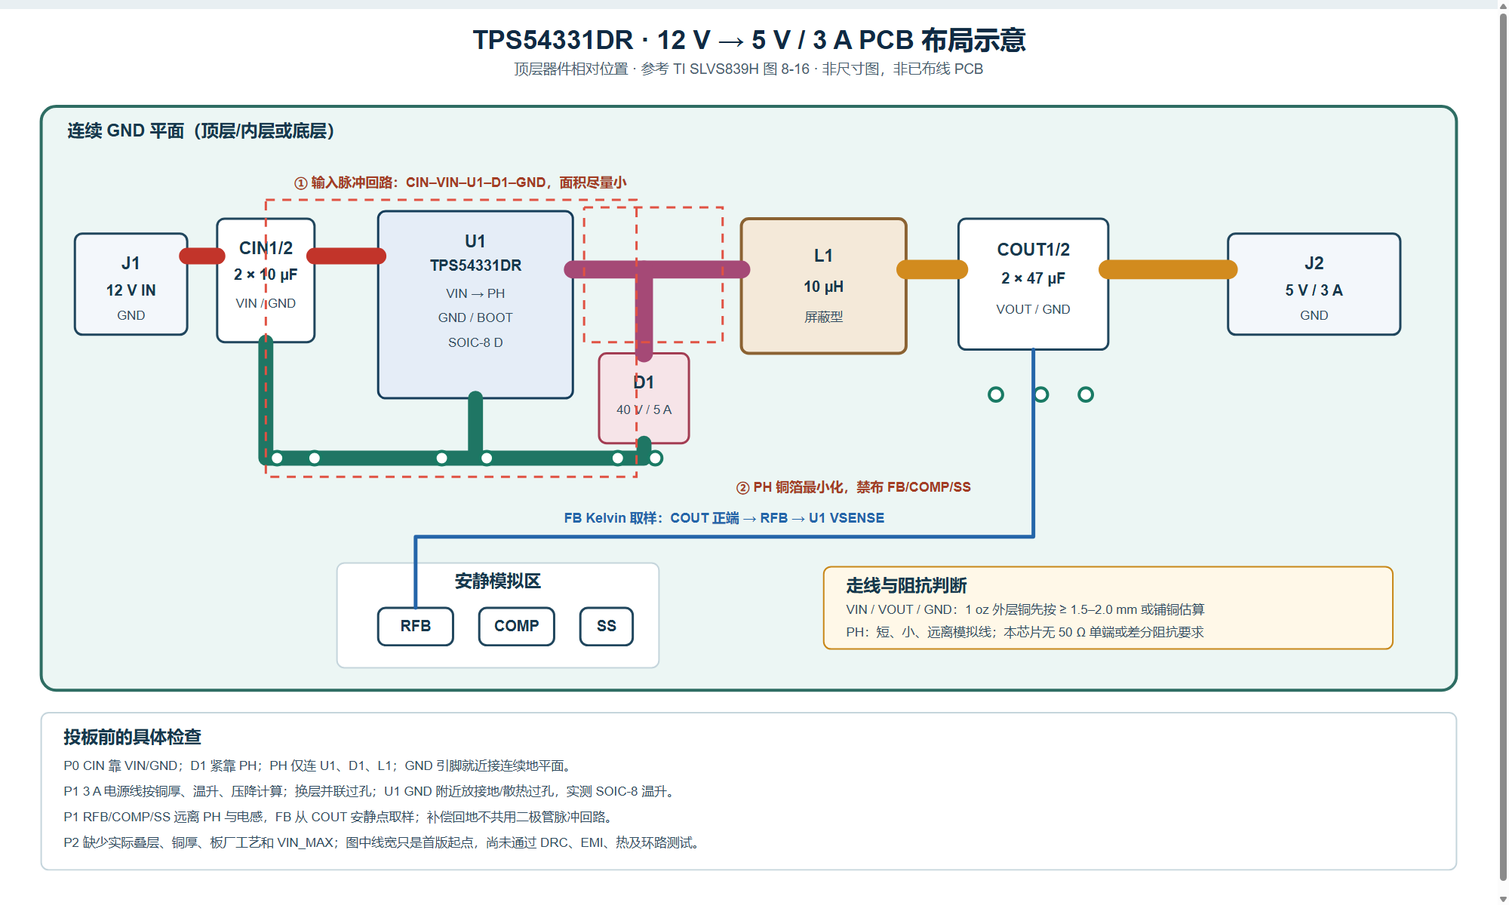
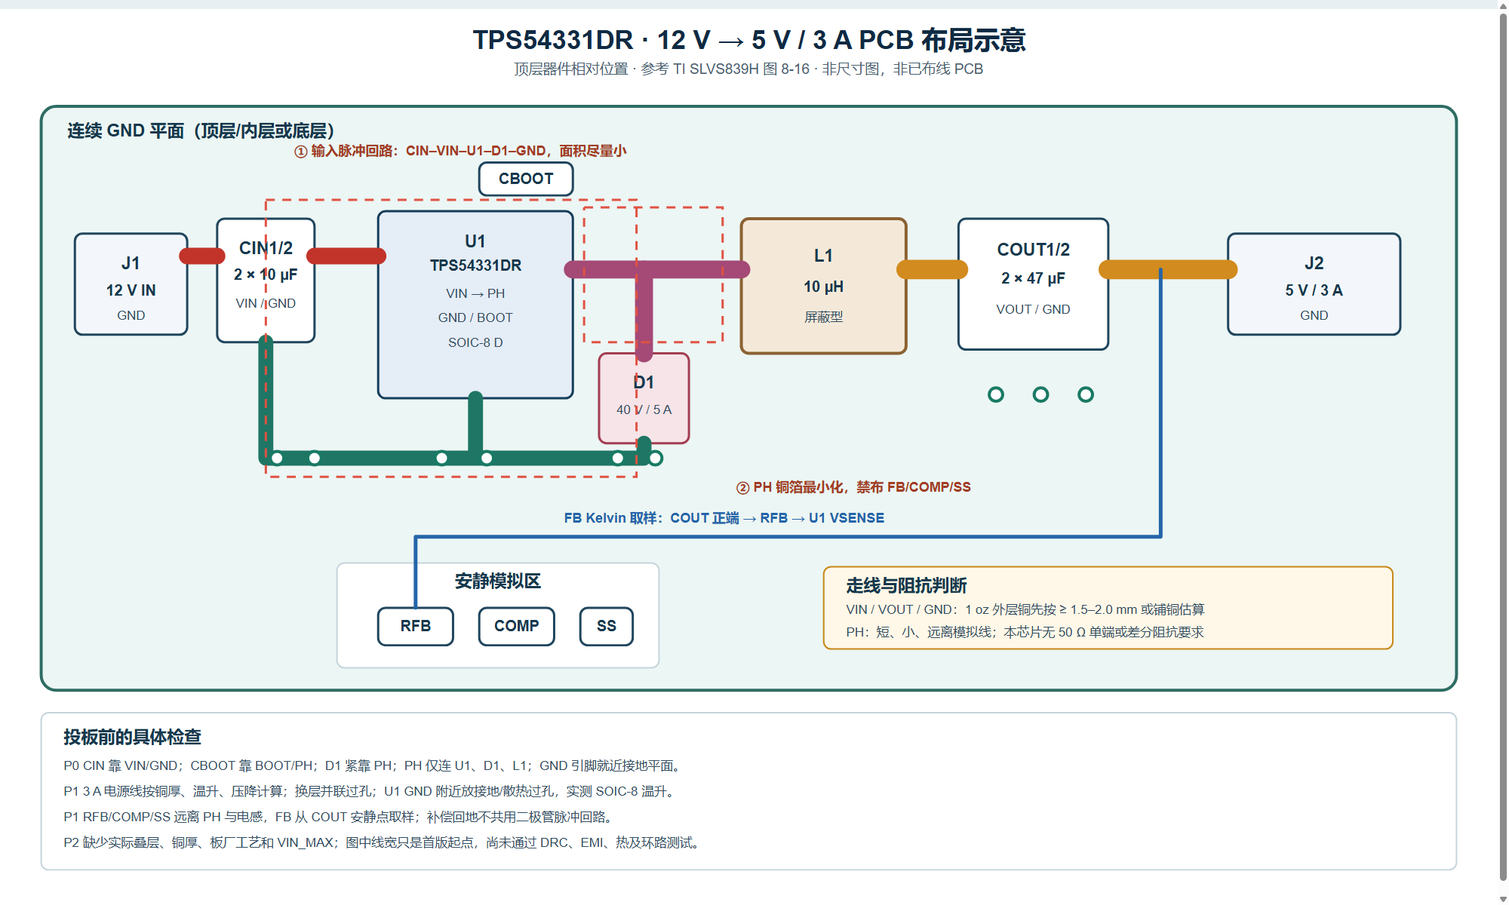
Refine TPS54331DR PCB illustration

Changed region(s): [[0.186, 0.1542, 0.434, 0.2158], [0.124, 0.8325, 0.434, 0.8633], [0.682, 0.5858, 0.775, 0.6167]]

diff --git a/examples/tps54331dr-12v-to-5v-3a/tps54331dr_12v_to_5v_3a_circuit_pcb_review.html b/examples/tps54331dr-12v-to-5v-3a/tps54331dr_12v_to_5v_3a_circuit_pcb_review.html
@@ -3,4 +3,4 @@
 .wire{stroke:#17384d;stroke-width:3;fill:none;stroke-linejoin:round;stroke-linecap:round}.power{stroke:#b42318;stroke-width:4;fill:none;stroke-linejoin:round;stroke-linecap:round}.sym{stroke:#17384d;stroke-width:3;fill:none}.gnd{stroke:#607488;stroke-width:2.5;fill:none}.part{fill:#fff;stroke:#17384d;stroke-width:2.5}.chip{fill:#edf5fb;stroke:#102a43;stroke-width:3}.port{fill:#f6fafc;stroke:#17384d;stroke-width:2.5}.net{fill:#e7f4ed;stroke:#25724e;stroke-width:2}.text{fill:#17384d;font:19px Arial,'Microsoft YaHei',sans-serif}.title{fill:#102a43;font:bold 31px Arial,'Microsoft YaHei',sans-serif}.sub{fill:#526a7a;font:17px Arial,'Microsoft YaHei',sans-serif}.ref{fill:#17384d;font:bold 17px Arial,'Microsoft YaHei',sans-serif}.val{fill:#b42318;font:bold 16px Arial,'Microsoft YaHei',sans-serif}.pin{fill:#102a43;font:bold 18px Arial,sans-serif}.nettext{fill:#25724e;font:bold 17px Arial,sans-serif}.note{fill:#fff8e8;stroke:#c88719;stroke-width:2}.small{fill:#334e63;font:17px Arial,'Microsoft YaHei',sans-serif}
 </style></defs><rect width="1800" height="1100" fill="white"/><text x="900" y="47" class="title" text-anchor="middle">TPS54331DR 12 V → 5 V / 3 A 降压电路</text><text x="900" y="77" class="sub" text-anchor="middle">TI SLVS839H · SOIC-8 D 封装 · 570 kHz · 初版工程示意图</text><rect x="40" y="285" width="170" height="70" class="port" rx="5"/><text x="125" y="315" class="ref" text-anchor="middle">J1</text><text x="125" y="340" class="text" text-anchor="middle">12 V IN</text><path class="wire" d="M125 355V390"/><path class="gnd" d="M102 390h46 M109 398h32 M116 406h18"/><path class="power" d="M210 320H590"/><text x="240" y="300" class="val">VIN</text><path class="power" d="M330 320V405 M450 320V405"/><path class="sym" d="M330 382v23 M305 405h50 M305 420h50 M330 420v25"/><path class="gnd" d="M307 445h46 M314 453h32 M321 461h18"/><text x="330" y="481" class="ref" text-anchor="middle">CIN1</text><text x="330" y="504" class="val" text-anchor="middle">10 µF / 50 V</text><path class="sym" d="M450 382v23 M425 405h50 M425 420h50 M450 420v25"/><path class="gnd" d="M427 445h46 M434 453h32 M441 461h18"/><text x="450" y="481" class="ref" text-anchor="middle">CIN2</text><text x="450" y="504" class="val" text-anchor="middle">10 µF / 50 V</text><path class="power" d="M590 320H610"/><rect x="590" y="240" width="360" height="390" class="chip" rx="5"/><text x="770" y="380" class="title" text-anchor="middle">TPS54331DR</text><text x="770" y="408" class="text" text-anchor="middle">U1 · SOIC-8 (D)</text><text x="770" y="432" class="sub" text-anchor="middle">3 A 非同步 Buck</text><text x="608" y="266" class="pin">1 BOOT</text><text x="608" y="326" class="pin">2 VIN</text><text x="608" y="446" class="pin">3 EN</text><text x="608" y="546" class="pin">4 SS</text><text x="866" y="326" class="pin">8 PH</text><text x="852" y="446" class="pin">5 VSENSE</text><text x="853" y="546" class="pin">6 COMP</text><text x="715" y="614" class="pin">7 GND</text><path class="power" d="M590 270H550V155H925 M999 155H1110V320"/><path class="sym" d="M925 155h19 M944 129v52 M958 129v52 M958 155h41"/><text x="952" y="111" class="val" text-anchor="middle">CBOOT · 100 nF X7R</text><path class="wire" d="M590 440H510"/><rect x="510" y="416" width="74" height="30" class="net" rx="5"/><text x="547" y="437" class="nettext" text-anchor="middle">EN</text><path class="wire" d="M590 540H490V575"/><path class="sym" d="M490 575v23 M465 598h50 M465 613h50 M490 613v25"/><path class="gnd" d="M467 638h46 M474 646h32 M481 654h18"/><text x="490" y="674" class="ref" text-anchor="middle">CSS</text><text x="490" y="697" class="val" text-anchor="middle">10 nF</text><path class="wire" d="M750 630V660"/><path class="gnd" d="M727 660h46 M734 668h32 M741 676h18"/><path class="wire" d="M950 440H980"/><rect x="980" y="416" width="74" height="30" class="net" rx="5"/><text x="1017" y="437" class="nettext" text-anchor="middle">FB</text><path class="wire" d="M950 540H980"/><rect x="980" y="516" width="74" height="30" class="net" rx="5"/><text x="1017" y="537" class="nettext" text-anchor="middle">COMP</text><path class="power" d="M950 320H1170"/><path class="power" d="M1120 320V394"/><path class="wire" d="M1120 394V405"/><path class="sym" d="M1095 405H1145 M1095 445L1120 412L1145 445Z"/><path class="wire" d="M1120 445V478"/><path class="gnd" d="M1097 478h46 M1104 486h32 M1111 494h18"/><text x="1160" y="415" class="ref">D1</text><text x="1160" y="440" class="val">B540A · 40 V / 5 A</text><path class="power" d="M1170 320C1180 295 1200 295 1210 320C1220 345 1240 345 1250 320C1260 295 1280 295 1290 320C1300 345 1320 345 1330 320"/><path class="power" d="M1330 320H1660"/><text x="1250" y="260" class="ref" text-anchor="middle">L1 · 10 µH</text><text x="1250" y="282" class="val" text-anchor="middle">Isat ≥ 4.5 A, Irms ≥ 3.5 A</text><path class="power" d="M1390 320V405 M1510 320V405"/><path class="sym" d="M1390 382v23 M1365 405h50 M1365 420h50 M1390 420v25"/><path class="gnd" d="M1367 445h46 M1374 453h32 M1381 461h18"/><text x="1390" y="481" class="ref" text-anchor="middle">COUT1</text><text x="1390" y="504" class="val" text-anchor="middle">47 µF / 16 V</text><path class="sym" d="M1510 382v23 M1485 405h50 M1485 420h50 M1510 420v25"/><path class="gnd" d="M1487 445h46 M1494 453h32 M1501 461h18"/><text x="1510" y="481" class="ref" text-anchor="middle">COUT2</text><text x="1510" y="504" class="val" text-anchor="middle">47 µF / 16 V</text><rect x="1660" y="285" width="115" height="70" class="port" rx="5"/><text x="1717" y="315" class="ref" text-anchor="middle">J2</text><text x="1717" y="340" class="text" text-anchor="middle">5 V / 3 A</text><path class="wire" d="M1717 355V390"/><path class="gnd" d="M1694 390h46 M1701 398h32 M1708 406h18"/><rect x="250" y="626" width="74" height="30" class="net" rx="5"/><text x="287" y="647" class="nettext" text-anchor="middle">VIN</text><path class="wire" d="M287 650V667"/><path class="wire" d="M287 667v22 M287 735v22"/><rect x="272" y="689" width="30" height="46" class="part" rx="5"/><text x="315" y="708" class="ref">REN1</text><text x="315" y="732" class="val">332 kΩ</text><path class="wire" d="M287 757V775H365"/><rect x="365" y="775" width="74" height="30" class="net" rx="5"/><text x="402" y="796" class="nettext" text-anchor="middle">EN</text><path class="wire" d="M287 775V784"/><path class="wire" d="M287 784v22 M287 852v22"/><rect x="272" y="806" width="30" height="46" class="part" rx="5"/><text x="315" y="825" class="ref">REN2</text><text x="315" y="849" class="val">68.1 kΩ</text><path class="wire" d="M287 874V900"/><path class="gnd" d="M264 900h46 M271 908h32 M278 916h18"/><path class="wire" d="M1620 320V617"/><path class="wire" d="M1620 617v22 M1620 685v22"/><rect x="1605" y="639" width="30" height="46" class="part" rx="5"/><text x="1648" y="658" class="ref">RFB1</text><text x="1648" y="682" class="val">10.2 kΩ</text><path class="wire" d="M1620 707V735H1660"/><rect x="1660" y="735" width="74" height="30" class="net" rx="5"/><text x="1697" y="756" class="nettext" text-anchor="middle">FB</text><path class="wire" d="M1620 735V744"/><path class="wire" d="M1620 744v22 M1620 812v22"/><rect x="1605" y="766" width="30" height="46" class="part" rx="5"/><text x="1648" y="785" class="ref">RFB2</text><text x="1648" y="809" class="val">1.96 kΩ</text><path class="wire" d="M1620 834V862"/><path class="gnd" d="M1597 862h46 M1604 870h32 M1611 878h18"/><rect x="690" y="731" width="74" height="30" class="net" rx="5"/><text x="727" y="752" class="nettext" text-anchor="middle">COMP</text><path class="wire" d="M764 755H1000"/><path class="wire" d="M865 755V795"/><path class="sym" d="M865 795v23 M840 818h50 M840 833h50 M865 833v25"/><path class="gnd" d="M842 858h46 M849 866h32 M856 874h18"/><text x="865" y="894" class="ref" text-anchor="middle">CP</text><text x="865" y="917" class="val" text-anchor="middle">51 pF</text><path class="wire" d="M1000 755H1020"/><rect x="1020" y="740" width="70" height="30" class="part" rx="5"/><text x="1055" y="725" class="ref" text-anchor="middle">RCOMP</text><text x="1055" y="790" class="val" text-anchor="middle">35.7 kΩ</text><path class="wire" d="M1090 755H1150V795"/><path class="sym" d="M1150 795v23 M1125 818h50 M1125 833h50 M1150 833v25"/><path class="gnd" d="M1127 858h46 M1134 866h32 M1141 874h18"/><text x="1150" y="894" class="ref" text-anchor="middle">CZ</text><text x="1150" y="917" class="val" text-anchor="middle">1.0 nF</text><rect x="40" y="955" width="1735" height="115" class="note" rx="5"/><text x="65" y="985" class="ref">接线与验证重点</text><text x="65" y="1015" class="small">D1 阴极接 PH、阳极接地；CBOOT 跨 BOOT/PH。FB 和 COMP 绿色同名网络分别相连。</text><text x="65" y="1043" class="small">输出标称约 4.96 V；3 A 满载需检查 SOIC-8 温升，并验证实际输出电容、环路和 PCB 布局。</text></svg></section><section id="layout"><h2>2. PCB 布局策略</h2><p>器件相对位置和关键回路示意；线宽与过孔是首版起点，需按实际叠层和温升复核。</p><svg xmlns="http://www.w3.org/2000/svg" width="2000" height="1200" viewBox="0 0 2000 1200"><defs><style>
 .bg{fill:#fff}.board{fill:#ecf6f4;stroke:#2e6d63;stroke-width:4}.chip{fill:#e5edf7;stroke:#153d5a;stroke-width:3}.passive{fill:#fff;stroke:#20465d;stroke-width:3}.connector{fill:#f3f7fb;stroke:#20465d;stroke-width:3}.inductor{fill:#f4e9d9;stroke:#8b6232;stroke-width:4}.diode{fill:#f6e4e8;stroke:#a33d53;stroke-width:3}.node{fill:#fff;stroke:#20465d;stroke-width:3}.via{fill:#fff;stroke:#197a64;stroke-width:4}.vin{stroke:#c2342a;stroke-width:22;fill:none;stroke-linecap:round;stroke-linejoin:round}.ph{stroke:#a54976;stroke-width:24;fill:none;stroke-linecap:round;stroke-linejoin:round}.vout{stroke:#d28b1e;stroke-width:26;fill:none;stroke-linecap:round;stroke-linejoin:round}.gnd{stroke:#1f7664;stroke-width:20;fill:none;stroke-linecap:round;stroke-linejoin:round}.fb{stroke:#2465a9;stroke-width:5;fill:none;stroke-linecap:round;stroke-linejoin:round}.loop{stroke:#e05243;stroke-width:4;fill:none;stroke-dasharray:14 10;marker-end:url(#arrow)}.zone{fill:none;stroke:#e05243;stroke-width:3;stroke-dasharray:12 10}.separate{stroke:#587282;stroke-width:2;fill:none;stroke-dasharray:8 8}.title{font:bold 35px Arial,'Microsoft YaHei',sans-serif;fill:#102a43}.subtitle{font:19px Arial,'Microsoft YaHei',sans-serif;fill:#49616f}.head{font:bold 23px Arial,'Microsoft YaHei',sans-serif;fill:#17384d}.label{font:bold 20px Arial,'Microsoft YaHei',sans-serif;fill:#17384d}.small{font:17px Arial,'Microsoft YaHei',sans-serif;fill:#334e63}.white{font:bold 20px Arial,'Microsoft YaHei',sans-serif;fill:white}.warn{font:bold 18px Arial,'Microsoft YaHei',sans-serif;fill:#a33d25}.blue{font:bold 18px Arial,'Microsoft YaHei',sans-serif;fill:#2465a9}.tag{fill:#fff8e8;stroke:#c88719;stroke-width:2}.legend{fill:#fff;stroke:#c5d5dc;stroke-width:2}
-</style><marker id="arrow" viewBox="0 0 10 10" refX="8" refY="5" markerWidth="9" markerHeight="9" orient="auto"><path d="M0 0L10 5L0 10Z" fill="#e05243"/></marker></defs><rect x="0" y="0" width="2000" height="1200" rx="0" class="bg"/><text x="1000" y="53" class="title" text-anchor="middle">TPS54331DR · 12 V → 5 V / 3 A PCB 布局示意</text><text x="1000" y="87" class="subtitle" text-anchor="middle">顶层器件相对位置 · 参考 TI SLVS839H 图 8-16 · 非尺寸图，非已布线 PCB</text><rect x="55" y="130" width="1890" height="780" rx="20" class="board"/><text x="90" y="170" class="head">连续 GND 平面（顶层/内层或底层）</text><rect x="100" y="300" width="150" height="135" rx="10" class="connector"/><text x="175" y="348" class="head" text-anchor="middle">J1</text><text x="175" y="383" class="label" text-anchor="middle">12 V IN</text><text x="175" y="415" class="small" text-anchor="middle">GND</text><rect x="290" y="280" width="130" height="165" rx="10" class="passive"/><text x="355" y="327" class="head" text-anchor="middle">CIN1/2</text><text x="355" y="362" class="label" text-anchor="middle">2 × 10 µF</text><text x="355" y="399" class="small" text-anchor="middle">VIN / GND</text><rect x="505" y="270" width="260" height="250" rx="10" class="chip"/><text x="635" y="318" class="head" text-anchor="middle">U1</text><text x="635" y="350" class="label" text-anchor="middle">TPS54331DR</text><text x="635" y="386" class="small" text-anchor="middle">VIN  →  PH</text><text x="635" y="418" class="small" text-anchor="middle">GND / BOOT</text><text x="635" y="451" class="small" text-anchor="middle">SOIC-8 D</text><rect x="800" y="460" width="120" height="120" rx="10" class="diode"/><text x="860" y="507" class="head" text-anchor="middle">D1</text><text x="860" y="541" class="small" text-anchor="middle">40 V / 5 A</text><rect x="990" y="280" width="220" height="180" rx="10" class="inductor"/><text x="1100" y="338" class="head" text-anchor="middle">L1</text><text x="1100" y="378" class="label" text-anchor="middle">10 µH</text><text x="1100" y="417" class="small" text-anchor="middle">屏蔽型</text><rect x="1280" y="280" width="200" height="175" rx="10" class="passive"/><text x="1380" y="329" class="head" text-anchor="middle">COUT1/2</text><text x="1380" y="367" class="label" text-anchor="middle">2 × 47 µF</text><text x="1380" y="407" class="small" text-anchor="middle">VOUT / GND</text><rect x="1640" y="300" width="230" height="135" rx="10" class="connector"/><text x="1755" y="348" class="head" text-anchor="middle">J2</text><text x="1755" y="383" class="label" text-anchor="middle">5 V / 3 A</text><text x="1755" y="415" class="small" text-anchor="middle">GND</text><path d="M250 330H290 M420 330H505" class="vin"/><path d="M765 348H990" class="ph"/><path d="M860 460V348" class="ph"/><path d="M1210 348H1280 M1480 348H1640" class="vout"/><path d="M355 445V600H635V520 M635 600H860V580" class="gnd"/><circle cx="370" cy="600" r="9" class="via"/><circle cx="420" cy="600" r="9" class="via"/><circle cx="590" cy="600" r="9" class="via"/><circle cx="650" cy="600" r="9" class="via"/><circle cx="825" cy="600" r="9" class="via"/><circle cx="875" cy="600" r="9" class="via"/><circle cx="1330" cy="515" r="9" class="via"/><circle cx="1390" cy="515" r="9" class="via"/><circle cx="1450" cy="515" r="9" class="via"/><rect x="450" y="740" width="430" height="140" rx="10" class="legend"/><text x="665" y="772" class="head" text-anchor="middle">安静模拟区</text><rect x="505" y="800" width="100" height="50" rx="10" class="passive"/><text x="555" y="831" class="label" text-anchor="middle">RFB</text><rect x="640" y="800" width="100" height="50" rx="10" class="passive"/><text x="690" y="831" class="label" text-anchor="middle">COMP</text><rect x="775" y="800" width="70" height="50" rx="10" class="passive"/><text x="810" y="831" class="label" text-anchor="middle">SS</text><path d="M1380 455V705H555V800" class="fb"/><text x="967" y="686" class="blue" text-anchor="middle">FB Kelvin 取样：COUT 正端 → RFB → U1 VSENSE</text><path d="M355 255H850V625H355V255" class="zone"/><text x="615" y="238" class="warn" text-anchor="middle">① 输入脉冲回路：CIN–VIN–U1–D1–GND，面积尽量小</text><path d="M780 265H965V445H780V265" class="zone"/><text x="1140" y="645" class="warn" text-anchor="middle">② PH 铜箔最小化，禁布 FB/COMP/SS</text><rect x="1100" y="745" width="760" height="110" rx="10" class="tag"/><text x="1130" y="778" class="head">走线与阻抗判断</text><text x="1130" y="808" class="small">VIN / VOUT / GND：1 oz 外层铜先按 ≥ 1.5–2.0 mm 或铺铜估算</text><text x="1130" y="838" class="small">PH：短、小、远离模拟线；本芯片无 50 Ω 单端或差分阻抗要求</text><rect x="55" y="940" width="1890" height="210" rx="10" class="legend"/><text x="85" y="980" class="head">投板前的具体检查</text><text x="85" y="1017" class="small">P0  CIN 靠 VIN/GND；D1 紧靠 PH；PH 仅连 U1、D1、L1；GND 引脚就近接连续地平面。</text><text x="85" y="1051" class="small">P1  3 A 电源线按铜厚、温升、压降计算；换层并联过孔；U1 GND 附近放接地/散热过孔，实测 SOIC-8 温升。</text><text x="85" y="1085" class="small">P1  RFB/COMP/SS 远离 PH 与电感，FB 从 COUT 安静点取样；补偿回地不共用二极管脉冲回路。</text><text x="85" y="1119" class="small">P2  缺少实际叠层、铜厚、板厂工艺和 VIN_MAX；图中线宽只是首版起点，尚未通过 DRC、EMI、热及环路测试。</text></svg></section><div id="checks" class="callout"><strong>投板前关键验证：</strong>确认 VIN_MAX、铜厚、板层、连接器和环境温度；复核 3 A 满载温升、输出电容 DC-bias、环路、EMI、DRC 和短路恢复。本芯片电源线不设 50 Ω 受控阻抗。</div></main><footer>PCB 图不含真实封装尺寸及铜箔层数据，不能直接用于生产。完整选型和计算见随附设计说明。</footer></body></html>
+</style><marker id="arrow" viewBox="0 0 10 10" refX="8" refY="5" markerWidth="9" markerHeight="9" orient="auto"><path d="M0 0L10 5L0 10Z" fill="#e05243"/></marker></defs><rect x="0" y="0" width="2000" height="1200" rx="0" class="bg"/><text x="1000" y="53" class="title" text-anchor="middle">TPS54331DR · 12 V → 5 V / 3 A PCB 布局示意</text><text x="1000" y="87" class="subtitle" text-anchor="middle">顶层器件相对位置 · 参考 TI SLVS839H 图 8-16 · 非尺寸图，非已布线 PCB</text><rect x="55" y="130" width="1890" height="780" rx="20" class="board"/><text x="90" y="170" class="head">连续 GND 平面（顶层/内层或底层）</text><rect x="100" y="300" width="150" height="135" rx="10" class="connector"/><text x="175" y="348" class="head" text-anchor="middle">J1</text><text x="175" y="383" class="label" text-anchor="middle">12 V IN</text><text x="175" y="415" class="small" text-anchor="middle">GND</text><rect x="290" y="280" width="130" height="165" rx="10" class="passive"/><text x="355" y="327" class="head" text-anchor="middle">CIN1/2</text><text x="355" y="362" class="label" text-anchor="middle">2 × 10 µF</text><text x="355" y="399" class="small" text-anchor="middle">VIN / GND</text><rect x="640" y="205" width="125" height="44" rx="10" class="passive"/><text x="702" y="234" class="label" text-anchor="middle">CBOOT</text><rect x="505" y="270" width="260" height="250" rx="10" class="chip"/><text x="635" y="318" class="head" text-anchor="middle">U1</text><text x="635" y="350" class="label" text-anchor="middle">TPS54331DR</text><text x="635" y="386" class="small" text-anchor="middle">VIN  →  PH</text><text x="635" y="418" class="small" text-anchor="middle">GND / BOOT</text><text x="635" y="451" class="small" text-anchor="middle">SOIC-8 D</text><rect x="800" y="460" width="120" height="120" rx="10" class="diode"/><text x="860" y="507" class="head" text-anchor="middle">D1</text><text x="860" y="541" class="small" text-anchor="middle">40 V / 5 A</text><rect x="990" y="280" width="220" height="180" rx="10" class="inductor"/><text x="1100" y="338" class="head" text-anchor="middle">L1</text><text x="1100" y="378" class="label" text-anchor="middle">10 µH</text><text x="1100" y="417" class="small" text-anchor="middle">屏蔽型</text><rect x="1280" y="280" width="200" height="175" rx="10" class="passive"/><text x="1380" y="329" class="head" text-anchor="middle">COUT1/2</text><text x="1380" y="367" class="label" text-anchor="middle">2 × 47 µF</text><text x="1380" y="407" class="small" text-anchor="middle">VOUT / GND</text><rect x="1640" y="300" width="230" height="135" rx="10" class="connector"/><text x="1755" y="348" class="head" text-anchor="middle">J2</text><text x="1755" y="383" class="label" text-anchor="middle">5 V / 3 A</text><text x="1755" y="415" class="small" text-anchor="middle">GND</text><path d="M250 330H290 M420 330H505" class="vin"/><path d="M765 348H990" class="ph"/><path d="M860 460V348" class="ph"/><path d="M1210 348H1280 M1480 348H1640" class="vout"/><path d="M355 445V600H635V520 M635 600H860V580" class="gnd"/><circle cx="370" cy="600" r="9" class="via"/><circle cx="420" cy="600" r="9" class="via"/><circle cx="590" cy="600" r="9" class="via"/><circle cx="650" cy="600" r="9" class="via"/><circle cx="825" cy="600" r="9" class="via"/><circle cx="875" cy="600" r="9" class="via"/><circle cx="1330" cy="515" r="9" class="via"/><circle cx="1390" cy="515" r="9" class="via"/><circle cx="1450" cy="515" r="9" class="via"/><rect x="450" y="740" width="430" height="140" rx="10" class="legend"/><text x="665" y="772" class="head" text-anchor="middle">安静模拟区</text><rect x="505" y="800" width="100" height="50" rx="10" class="passive"/><text x="555" y="831" class="label" text-anchor="middle">RFB</text><rect x="640" y="800" width="100" height="50" rx="10" class="passive"/><text x="690" y="831" class="label" text-anchor="middle">COMP</text><rect x="775" y="800" width="70" height="50" rx="10" class="passive"/><text x="810" y="831" class="label" text-anchor="middle">SS</text><path d="M1550 348V705H555V800" class="fb"/><text x="967" y="686" class="blue" text-anchor="middle">FB Kelvin 取样：COUT 正端 → RFB → U1 VSENSE</text><path d="M355 255H850V625H355V255" class="zone"/><text x="615" y="195" class="warn" text-anchor="middle">① 输入脉冲回路：CIN–VIN–U1–D1–GND，面积尽量小</text><path d="M780 265H965V445H780V265" class="zone"/><text x="1140" y="645" class="warn" text-anchor="middle">② PH 铜箔最小化，禁布 FB/COMP/SS</text><rect x="1100" y="745" width="760" height="110" rx="10" class="tag"/><text x="1130" y="778" class="head">走线与阻抗判断</text><text x="1130" y="808" class="small">VIN / VOUT / GND：1 oz 外层铜先按 ≥ 1.5–2.0 mm 或铺铜估算</text><text x="1130" y="838" class="small">PH：短、小、远离模拟线；本芯片无 50 Ω 单端或差分阻抗要求</text><rect x="55" y="940" width="1890" height="210" rx="10" class="legend"/><text x="85" y="980" class="head">投板前的具体检查</text><text x="85" y="1017" class="small">P0  CIN 靠 VIN/GND；CBOOT 靠 BOOT/PH；D1 紧靠 PH；PH 仅连 U1、D1、L1；GND 引脚就近接地平面。</text><text x="85" y="1051" class="small">P1  3 A 电源线按铜厚、温升、压降计算；换层并联过孔；U1 GND 附近放接地/散热过孔，实测 SOIC-8 温升。</text><text x="85" y="1085" class="small">P1  RFB/COMP/SS 远离 PH 与电感，FB 从 COUT 安静点取样；补偿回地不共用二极管脉冲回路。</text><text x="85" y="1119" class="small">P2  缺少实际叠层、铜厚、板厂工艺和 VIN_MAX；图中线宽只是首版起点，尚未通过 DRC、EMI、热及环路测试。</text></svg></section><div id="checks" class="callout"><strong>投板前关键验证：</strong>确认 VIN_MAX、铜厚、板层、连接器和环境温度；复核 3 A 满载温升、输出电容 DC-bias、环路、EMI、DRC 和短路恢复。本芯片电源线不设 50 Ω 受控阻抗。</div></main><footer>PCB 图不含真实封装尺寸及铜箔层数据，不能直接用于生产。完整选型和计算见随附设计说明。</footer></body></html>

diff --git a/examples/tps54331dr-12v-to-5v-3a/design.md b/examples/tps54331dr-12v-to-5v-3a/design.md
@@ -169,10 +169,9 @@ TPS54331 的典型反馈基准为 0.8 V，使用：
 
 - [PCB 布局示意 PNG](./tps54331dr_12v_to_5v_3a_pcb_layout.png) · [SVG](./tps54331dr_12v_to_5v_3a_pcb_layout.svg)
 - 图为顶层器件相对位置和关键网络走向，不是可直接制造的 PCB 文件；布局原则来自 TI TPS54331 数据手册 SLVS839H 第 25–26 页（8.4.1、图 8-16）。
-- `CIN1/2` 靠 U1 `VIN/GND`；`D1` 靠 `PH`，`L1` 靠 PH/D1；`COUT1/2` 靠电感后端。减小 CIN–U1–D1–GND 高 di/dt 回路和 PH 铜箔面积。
+- `CIN1/2` 靠 U1 `VIN/GND`；`CBOOT` 靠 U1 `BOOT/PH`；`D1` 靠 `PH`，`L1` 靠 PH/D1；`COUT1/2` 靠电感后端。减小 CIN–U1–D1–GND 高 di/dt 回路和 PH 铜箔面积。
 - `FB` 从 COUT 正端的安静点 Kelvin 取样，RFB1/RFB2 靠 U1 VSENSE；COMP 和 SS 器件靠近 U1，远离 PH、L1 磁场。
 - `GND` 保持连续平面。U1 SOIC-8 D 封装无 PowerPAD；GND 引脚附近扩大顶层地铜，并用多颗接地/散热过孔接内层或底层地。过孔孔径、环宽、可承载电流由板厂工艺和温升确定。
 - 3 A 电源线的起始建议：若外层 1 oz 铜、约 10 °C 温升，用 `≥1.5–2.0 mm` 走线或铺铜作为布局起点。IPC-2221 粗估约 1.4 mm；实际还须考虑电流回路、相邻发热体、允许压降和板厂叠层。PH 节点重点是短、小、低寄生电感，不能照 3 A 电源线要求铺成大片。
 - 本芯片没有 USB/LVDS 等高速接口；VIN、PH、VOUT、FB、COMP 不指定 50 Ω 单端阻抗或差分阻抗。若整板含其他高速线，应按对应协议和真实叠层单独定阻抗、线宽/线距和参考平面。
 - 板层数、铜厚、VIN_MAX、连接器、外壳与环境温度尚未锁定。宽度和过孔仅为初版建议；完成 EDA PCB 后还需要 DRC、温升、EMI、环路和负载瞬态测试。
-
